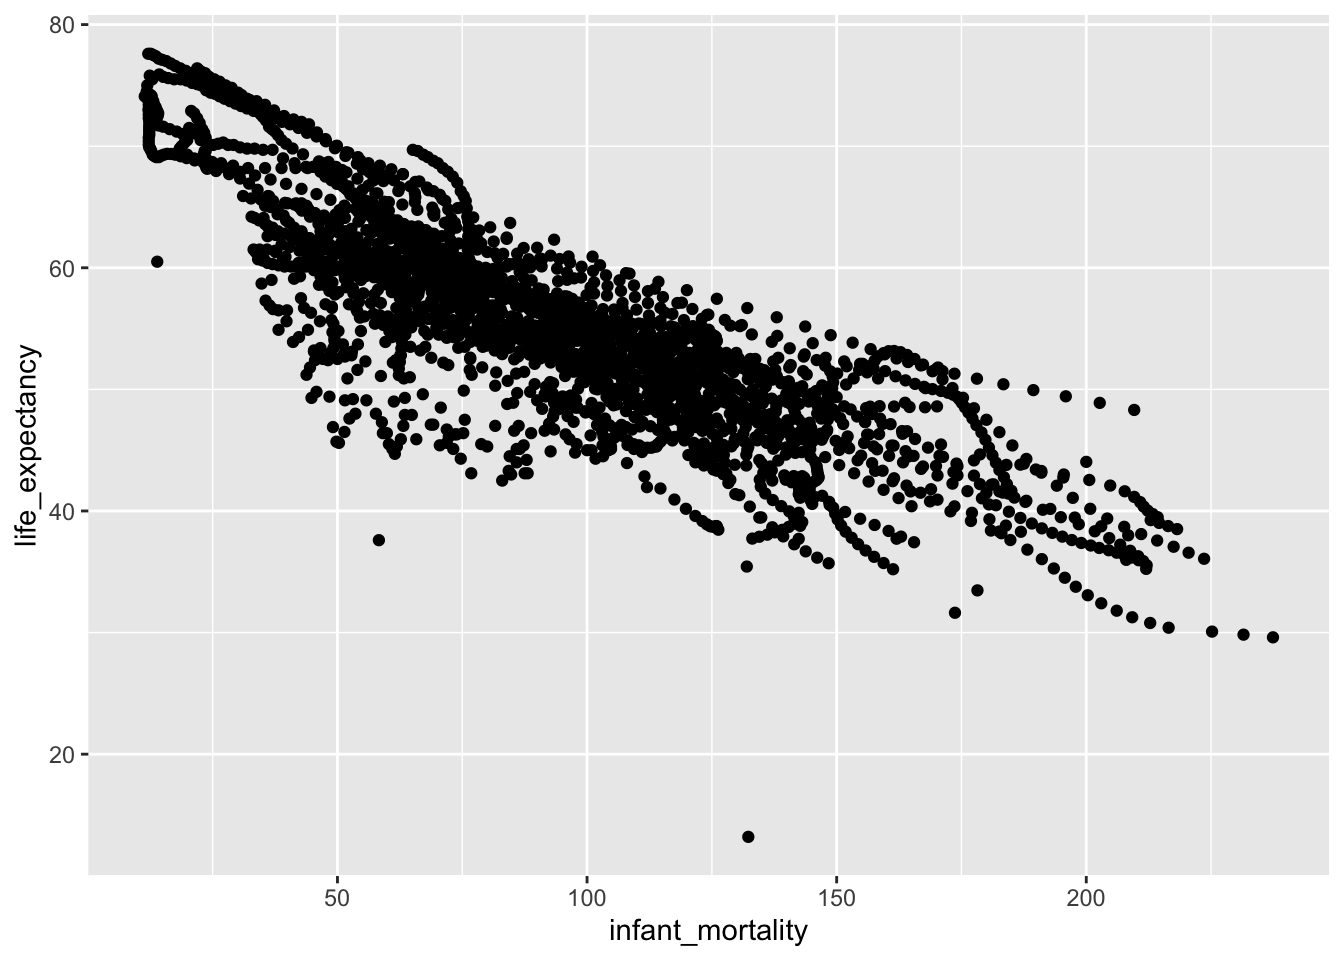
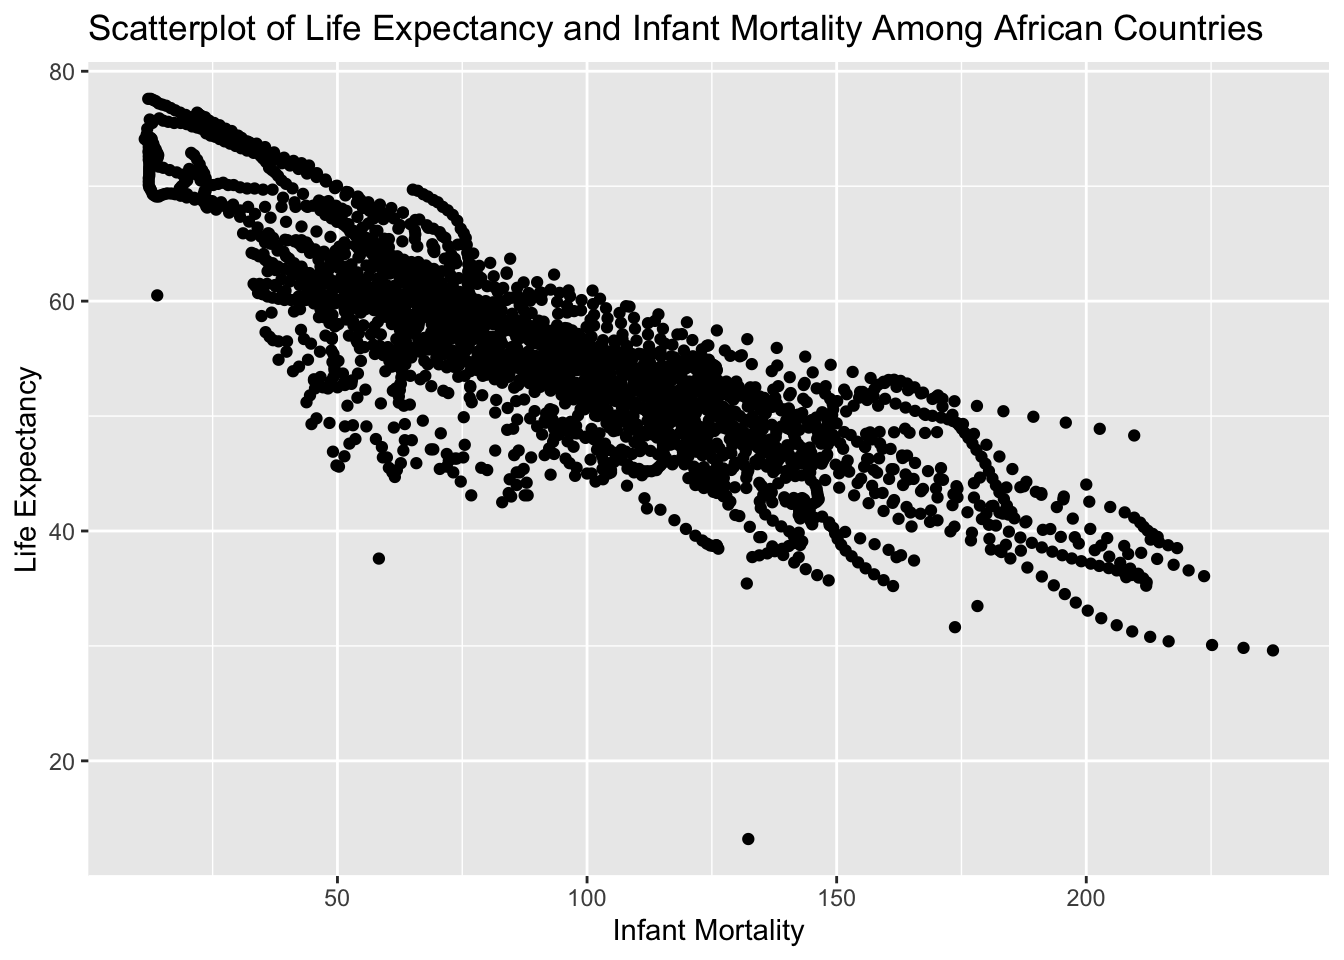
Tweaking the RMD
mainly plots

diff --git a/docs/rcoding.html b/docs/rcoding.html
@@ -341,7 +341,8 @@ $(document).ready(function () {
 </div>
 
 
-<p>This will contain the future R coding exercise.</p>
+<div id="loading-and-checking-data" class="section level3">
+<h3>Loading and Checking Data</h3>
 <div class="sourceCode"><pre class="sourceCode r"><code class="sourceCode r"><span class="co">#first loading some packages</span>
 <span class="co">#for plotting</span>
 <span class="kw">library</span>(ggplot2)
@@ -392,6 +393,9 @@ $(document).ready(function () {
 <div class="sourceCode"><pre class="sourceCode r"><code class="sourceCode r"><span class="co">#determining the type of object gapminder is</span>
 <span class="kw">class</span>(gapminder)</code></pre></div>
 <pre><code>## [1] &quot;data.frame&quot;</code></pre>
+</div>
+<div id="processing-data" class="section level3">
+<h3>Processing Data</h3>
 <div class="sourceCode"><pre class="sourceCode r"><code class="sourceCode r"><span class="co">#data processing chunk</span>
 
 <span class="co">#the following code subsets the data from African countries</span>
@@ -445,20 +449,22 @@ newdata2 &lt;-<span class="st"> </span>africadata[select2]
 ##  3rd Qu.: 13888152   3rd Qu.:60.10  
 ##  Max.   :182201962   Max.   :77.60  
 ##  NA&#39;s   :51</code></pre>
+</div>
+<div id="plotting" class="section level3">
+<h3>Plotting</h3>
 <div class="sourceCode"><pre class="sourceCode r"><code class="sourceCode r"><span class="co">#plotting</span>
 
 <span class="co">#plotting life expectancy and infant mortality</span>
-<span class="kw">ggplot</span>(newdata1, <span class="kw">aes</span>(<span class="dt">x=</span>infant_mortality, <span class="dt">y=</span>life_expectancy)) <span class="op">+</span><span class="st"> </span><span class="kw">geom_point</span>() </code></pre></div>
+<span class="kw">ggplot</span>(newdata1, <span class="kw">aes</span>(<span class="dt">x=</span>infant_mortality, <span class="dt">y=</span>life_expectancy)) <span class="op">+</span><span class="st"> </span><span class="kw">geom_point</span>() <span class="op">+</span>
+<span class="st">  </span><span class="kw">ggtitle</span>(<span class="st">&quot;Scatterplot of Life Expectancy and Infant Mortality Among African Countries&quot;</span>) <span class="op">+</span>
+<span class="st">  </span><span class="kw">xlab</span>(<span class="st">&quot;Infant Mortality&quot;</span>) <span class="op">+</span><span class="st"> </span><span class="kw">ylab</span>(<span class="st">&quot;Life Expectancy&quot;</span>)</code></pre></div>
 <pre><code>## Warning: Removed 226 rows containing missing values (geom_point).</code></pre>
 <p><img src="rcoding_files/figure-html/unnamed-chunk-3-1.png" width="672" /></p>
 <div class="sourceCode"><pre class="sourceCode r"><code class="sourceCode r"><span class="co">#plotting life expectancy and population size(log transformed)</span>
-<span class="kw">ggplot</span>(newdata2, <span class="kw">aes</span>(<span class="dt">x=</span>population, <span class="dt">y=</span>life_expectancy))  <span class="op">+</span><span class="st"> </span><span class="kw">geom_point</span>()</code></pre></div>
+<span class="kw">ggplot</span>(newdata2, <span class="kw">aes</span>(<span class="dt">x=</span>population, <span class="dt">y=</span>life_expectancy))  <span class="op">+</span><span class="st"> </span><span class="kw">geom_point</span>() <span class="op">+</span>
+<span class="st">  </span><span class="kw">scale_x_log10</span>() <span class="op">+</span><span class="st"> </span><span class="kw">ggtitle</span>(<span class="st">&quot;Scatterplot of Life Expectancy and Population Size Among African Countries&quot;</span>) <span class="op">+</span><span class="st"> </span><span class="kw">xlab</span>(<span class="st">&quot;Population Size (Log Transformed)&quot;</span>) <span class="op">+</span><span class="st"> </span><span class="kw">ylab</span>(<span class="st">&quot;Life Expectancy&quot;</span>)</code></pre></div>
 <pre><code>## Warning: Removed 51 rows containing missing values (geom_point).</code></pre>
 <p><img src="rcoding_files/figure-html/unnamed-chunk-3-2.png" width="672" /></p>
-<div class="sourceCode"><pre class="sourceCode r"><code class="sourceCode r">  <span class="kw">scale_x_log10</span>() </code></pre></div>
-<pre><code>## &lt;ScaleContinuousPosition&gt;
-##  Range:  
-##  Limits:    0 --    1</code></pre>
 <div class="sourceCode"><pre class="sourceCode r"><code class="sourceCode r"><span class="co">#taking another look at africa data</span>
 
 <span class="co">#We notice the year variable. After using the table function, we see that</span>
@@ -473,6 +479,9 @@ newdata2 &lt;-<span class="st"> </span>africadata[select2]
 ##   51   51   51   51   51   51   51   51   51   51   51   51   51   51   51   51 
 ## 2008 2009 2010 2011 2012 2013 2014 2015 2016 
 ##   51   51   51   51   51   51   51   51   51</code></pre>
+</div>
+<div id="more-data-processing" class="section level3">
+<h3>More data processing</h3>
 <div class="sourceCode"><pre class="sourceCode r"><code class="sourceCode r"><span class="co">#more data processing</span>
 
 <span class="co">#figuring out which years have missing data for infant mortality</span>
@@ -581,14 +590,22 @@ africadata2000 &lt;-<span class="st">  </span>africadata[<span class="kw">which<
 ##  Southern Africa          : 5  
 ##  Australia and New Zealand: 0  
 ##  (Other)                  : 0</code></pre>
+</div>
+<div id="more-plotting-for-year-2000-this-time" class="section level3">
+<h3>More plotting (for year 2000 this time)</h3>
 <div class="sourceCode"><pre class="sourceCode r"><code class="sourceCode r"><span class="co">#more plotting</span>
 
 <span class="co">#plotting life expectancy and infant mortality</span>
-<span class="kw">ggplot</span>(africadata2000, <span class="kw">aes</span>(<span class="dt">x=</span>infant_mortality, <span class="dt">y=</span>life_expectancy)) <span class="op">+</span><span class="st"> </span><span class="kw">geom_point</span>() </code></pre></div>
+<span class="kw">ggplot</span>(africadata2000, <span class="kw">aes</span>(<span class="dt">x=</span>infant_mortality, <span class="dt">y=</span>life_expectancy)) <span class="op">+</span><span class="st"> </span><span class="kw">geom_point</span>() <span class="op">+</span><span class="st"> </span><span class="kw">ggtitle</span>(<span class="st">&quot;Scatterplot of Life Expectancy and Infant Mortality Among African Countries&quot;</span>) <span class="op">+</span>
+<span class="st">  </span><span class="kw">xlab</span>(<span class="st">&quot;Infant Mortality&quot;</span>) <span class="op">+</span><span class="st"> </span><span class="kw">ylab</span>(<span class="st">&quot;Life Expectancy&quot;</span>)</code></pre></div>
 <p><img src="rcoding_files/figure-html/unnamed-chunk-5-1.png" width="672" /></p>
 <div class="sourceCode"><pre class="sourceCode r"><code class="sourceCode r"><span class="co">#plotting life expectancy and population size(log transformed)</span>
-<span class="kw">ggplot</span>(africadata2000, <span class="kw">aes</span>(<span class="dt">x=</span>population, <span class="dt">y=</span>life_expectancy))  <span class="op">+</span><span class="st"> </span><span class="kw">geom_point</span>() <span class="op">+</span><span class="st"> </span><span class="kw">scale_x_log10</span>() </code></pre></div>
+<span class="kw">ggplot</span>(africadata2000, <span class="kw">aes</span>(<span class="dt">x=</span>population, <span class="dt">y=</span>life_expectancy))  <span class="op">+</span><span class="st"> </span><span class="kw">geom_point</span>() <span class="op">+</span>
+<span class="kw">scale_x_log10</span>() <span class="op">+</span><span class="st"> </span><span class="kw">ggtitle</span>(<span class="st">&quot;Scatterplot of Life Expectancy and Population Size Among African Countries&quot;</span>) <span class="op">+</span><span class="st"> </span><span class="kw">xlab</span>(<span class="st">&quot;Population Size (Log Transformed)&quot;</span>) <span class="op">+</span><span class="st"> </span><span class="kw">ylab</span>(<span class="st">&quot;Life Expectancy&quot;</span>)</code></pre></div>
 <p><img src="rcoding_files/figure-html/unnamed-chunk-5-2.png" width="672" /></p>
+</div>
+<div id="a-simple-fit" class="section level3">
+<h3>A simple fit</h3>
 <div class="sourceCode"><pre class="sourceCode r"><code class="sourceCode r"><span class="co">#a simple fit</span>
 
 <span class="co">#fit1: life expectancy as outcome and infant mortality as predictor</span>
@@ -635,8 +652,12 @@ fit2 &lt;-<span class="st"> </span><span class="kw">lm</span>(africadata2000<spa
 ## Residual standard error: 8.524 on 49 degrees of freedom
 ## Multiple R-squared:  0.005176,   Adjusted R-squared:  -0.01513 
 ## F-statistic: 0.2549 on 1 and 49 DF,  p-value: 0.6159</code></pre>
-<p>Interpretation: Looking at the simple model with life expectancy as the outcome and infant mortality as the predictor, we see that the coefficient for infant mortality had a p-value of &lt; 0.0001 so we reject the null hypothesis that the two variables are independent. The coefficient for infant mortality was -0.18916, indicating that among African countries, a one unit increase in infant mortality is associated with a -0.18916 decrease in life expectancy.</p>
+</div>
+<div id="interpretation" class="section level3">
+<h3>Interpretation:</h3>
+<p>Looking at the simple model with life expectancy as the outcome and infant mortality as the predictor, we see that the coefficient for infant mortality had a p-value of &lt; 0.0001 so we reject the null hypothesis that the two variables are independent. The coefficient for infant mortality was -0.18916, indicating that among African countries, a one unit increase in infant mortality is associated with a -0.18916 decrease in life expectancy.</p>
 <p>Looking at the simple model with life expectancy as the outcome and population size as the predictor, we see that the coefficient for population size had a p-value of 0.616 so we fail to reject the null hypothesis that the two variables are independent. From this simple model, there does not seem to be an asccociation between population size and life expectancy among African countries.</p>
+</div>
 
 
 
